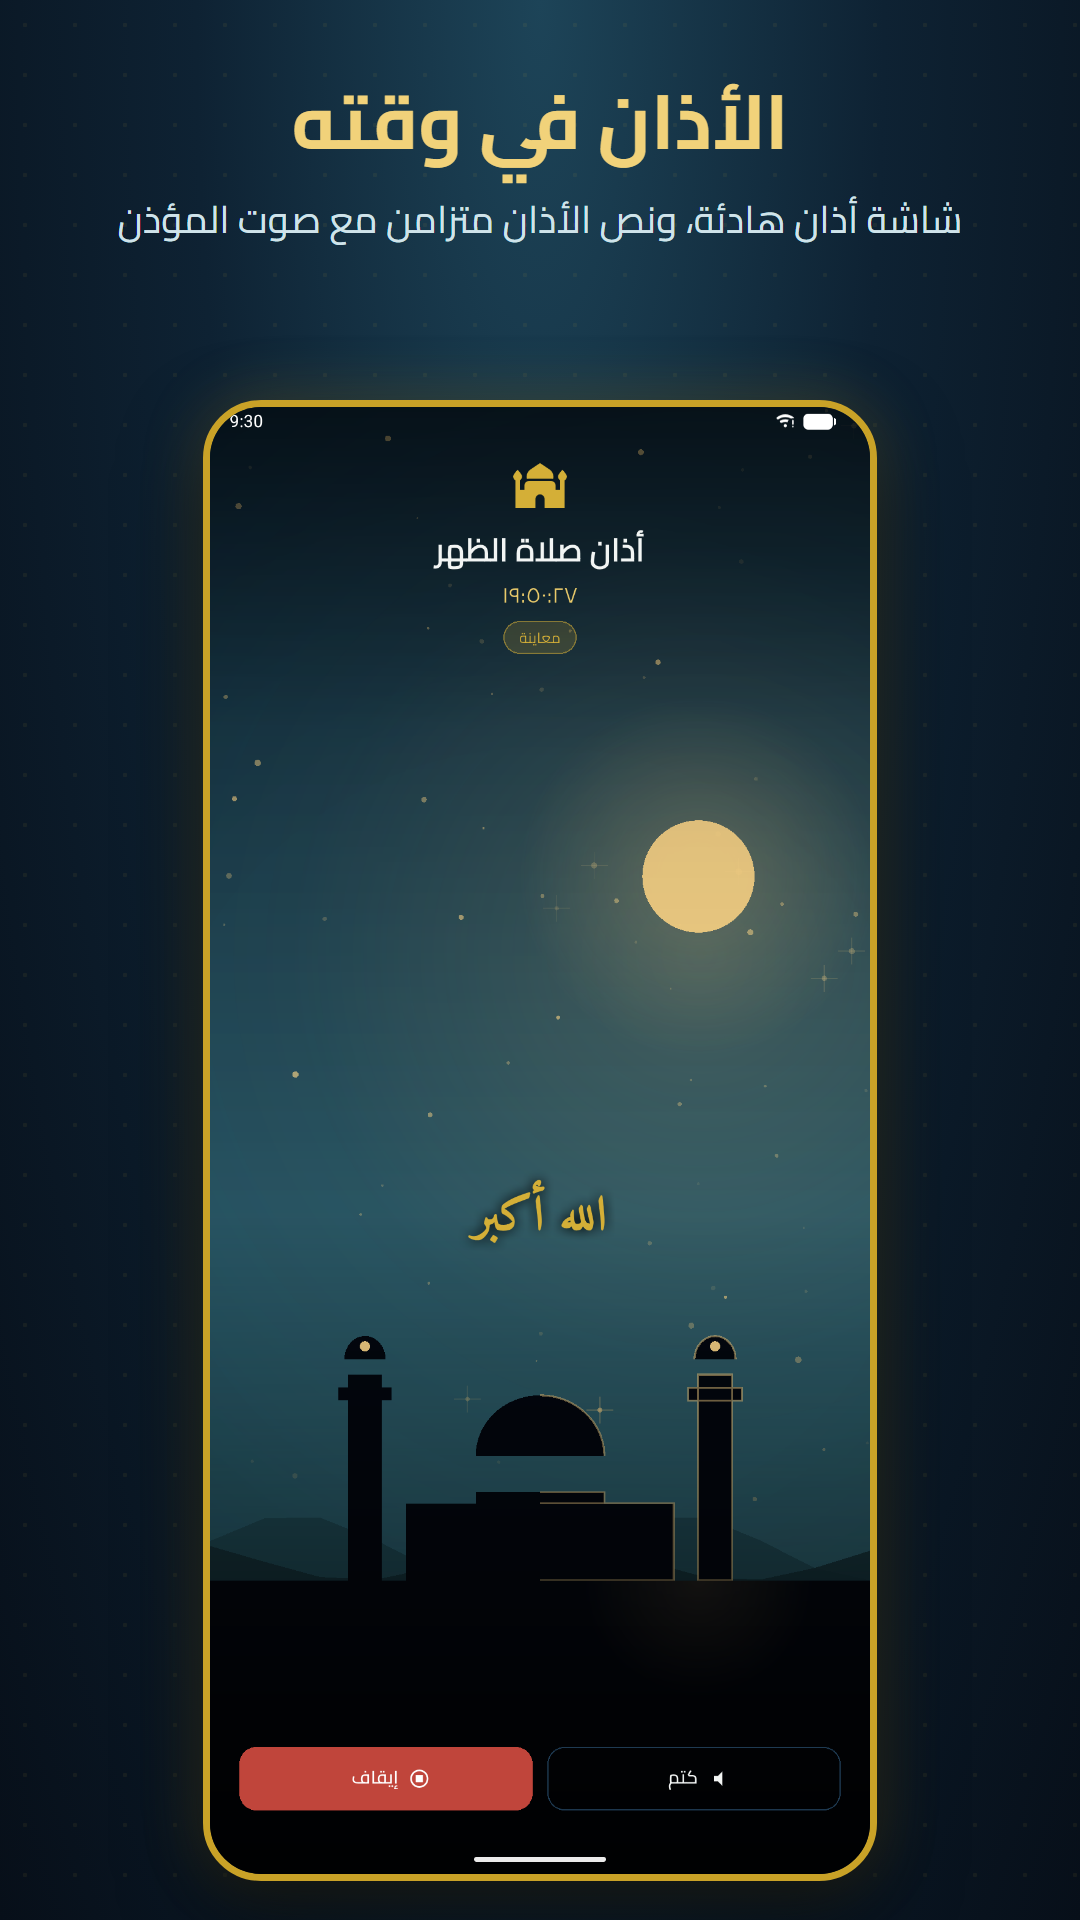
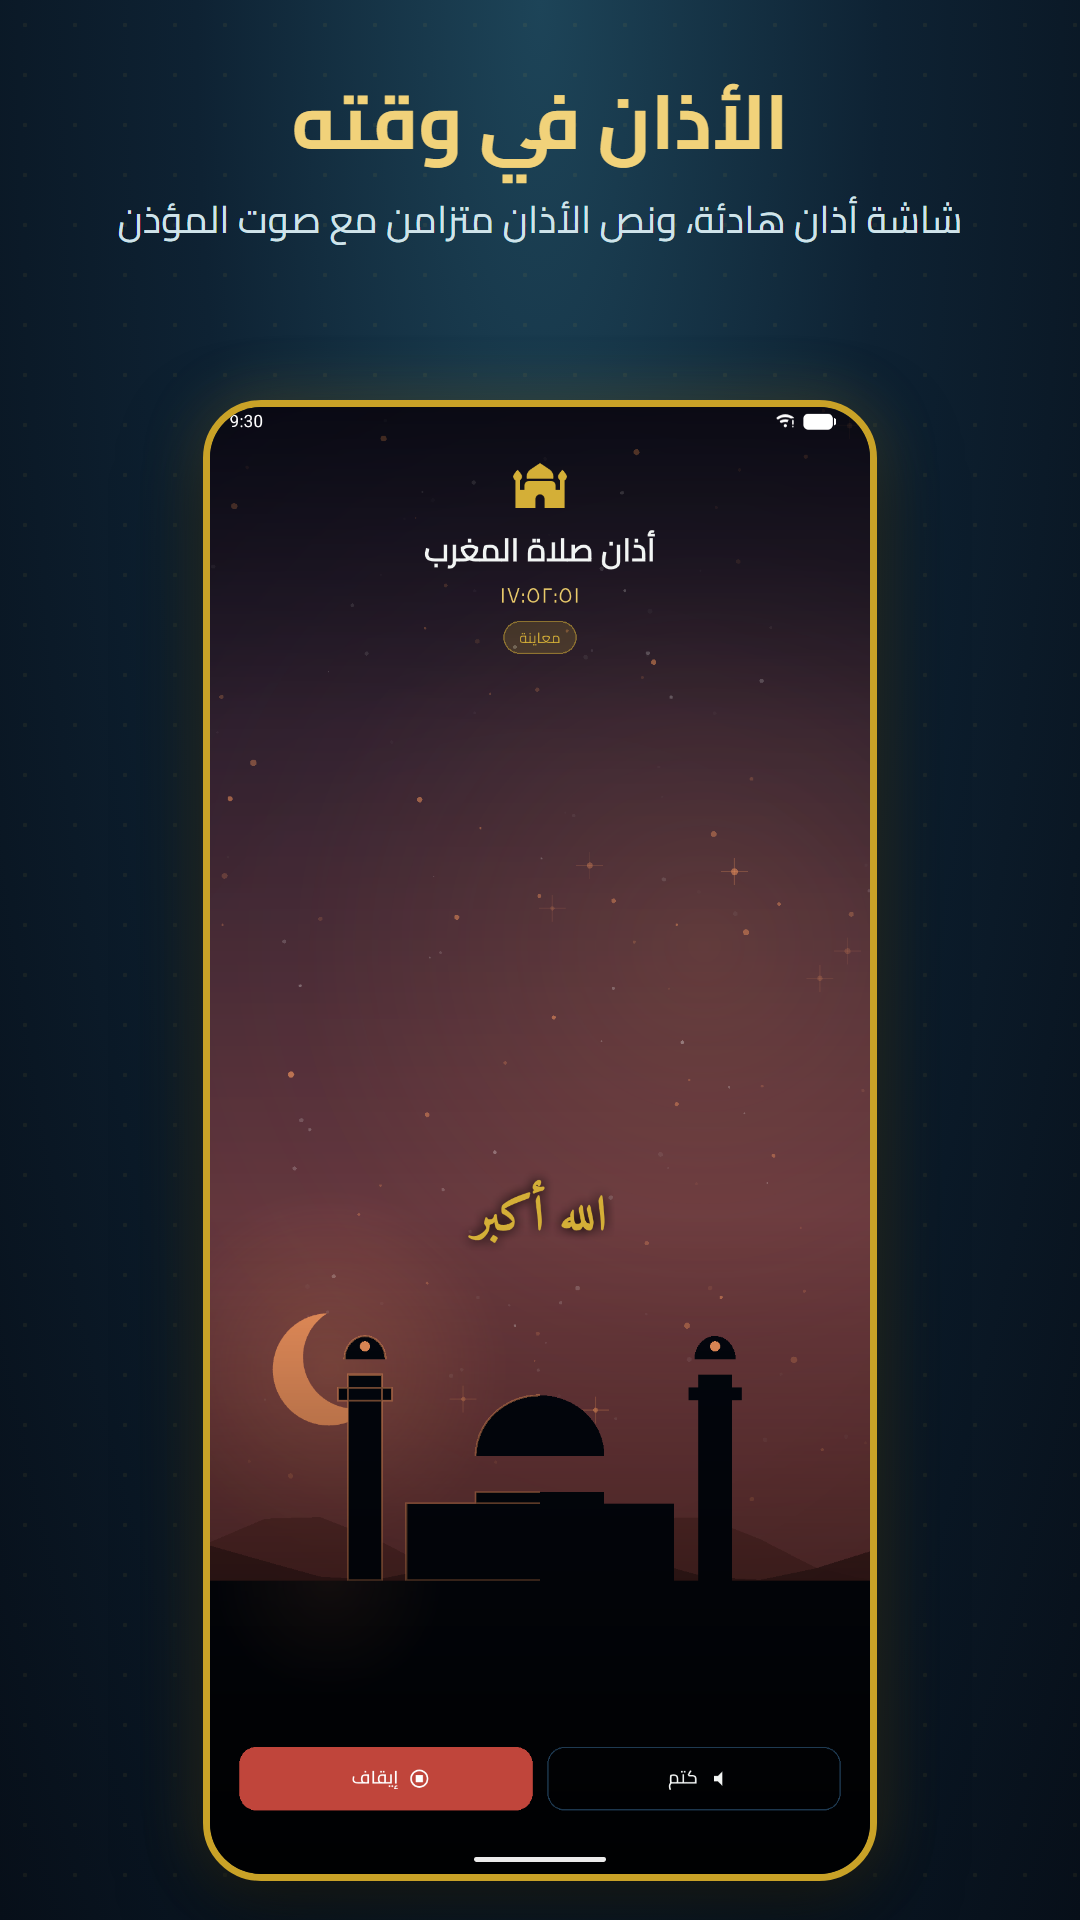
checkpoint(wip): Item 2 of the 2026-09-21 OPEN list: the 8 'sharh at-tatbiq' screenshots recaptured today on emulator-5554 (signed release, demo-mode status bar 09:30): 01_home, 02_quran (raster Madinah p.20), 12_adhan (preview), 04_azkar, 07_hadith (nine books open), 11_lesson (Tuhfa lesson 2), 08_

Changed region(s): [[0.1833, 0.3438, 0.825, 0.8438], [0.3972, 0.2812, 0.6111, 0.3125]]

diff --git a/HANDOVER.md b/HANDOVER.md
@@ -2223,9 +2223,9 @@ Licence CC BY-NC-ND (non-commercial — fine for this sideloaded app).
 ## Current work in progress
 
 <!-- WIP:START -->
-**2026-09-22 17:47 — IN PROGRESS — resume here**
+**2026-09-22 17:54 — IN PROGRESS — resume here**
 
-Verified on emulator-5554 (signed release): open tanween drawn staggered, no meem, under ummatan muslimatan (2:128, p.20); quick tour's 4th stop frames the whole Qibla compass card (dial + 258 deg); repair button: mushaf download cut at 7/604 by disabling wifi+data, network restored, 'islah' showed 'tamma isti'naf 1 tahmil ghayr muktamil' and the download went 10 -> 40 pages in 20 s. Items 1 and 3 of the 2026-09-21 OPEN list are done.
+Item 2 of the 2026-09-21 OPEN list: the 8 'sharh at-tatbiq' screenshots recaptured today on emulator-5554 (signed release, demo-mode status bar 09:30): 01_home, 02_quran (raster Madinah p.20), 12_adhan (preview), 04_azkar, 07_hadith (nine books open), 11_lesson (Tuhfa lesson 2), 08_hajj (with the Hajj/Umrah toggle), 10_more; store images and assets/tutorial_shots rebuilt with the two scripts (8 shots 6.64 MB -> 0.45 MB). All three OPEN items are now done.
 
 _Uncommitted at the time of writing: see `git status`. If this says
 IN PROGRESS, the previous session likely ran out of quota here — read the last
